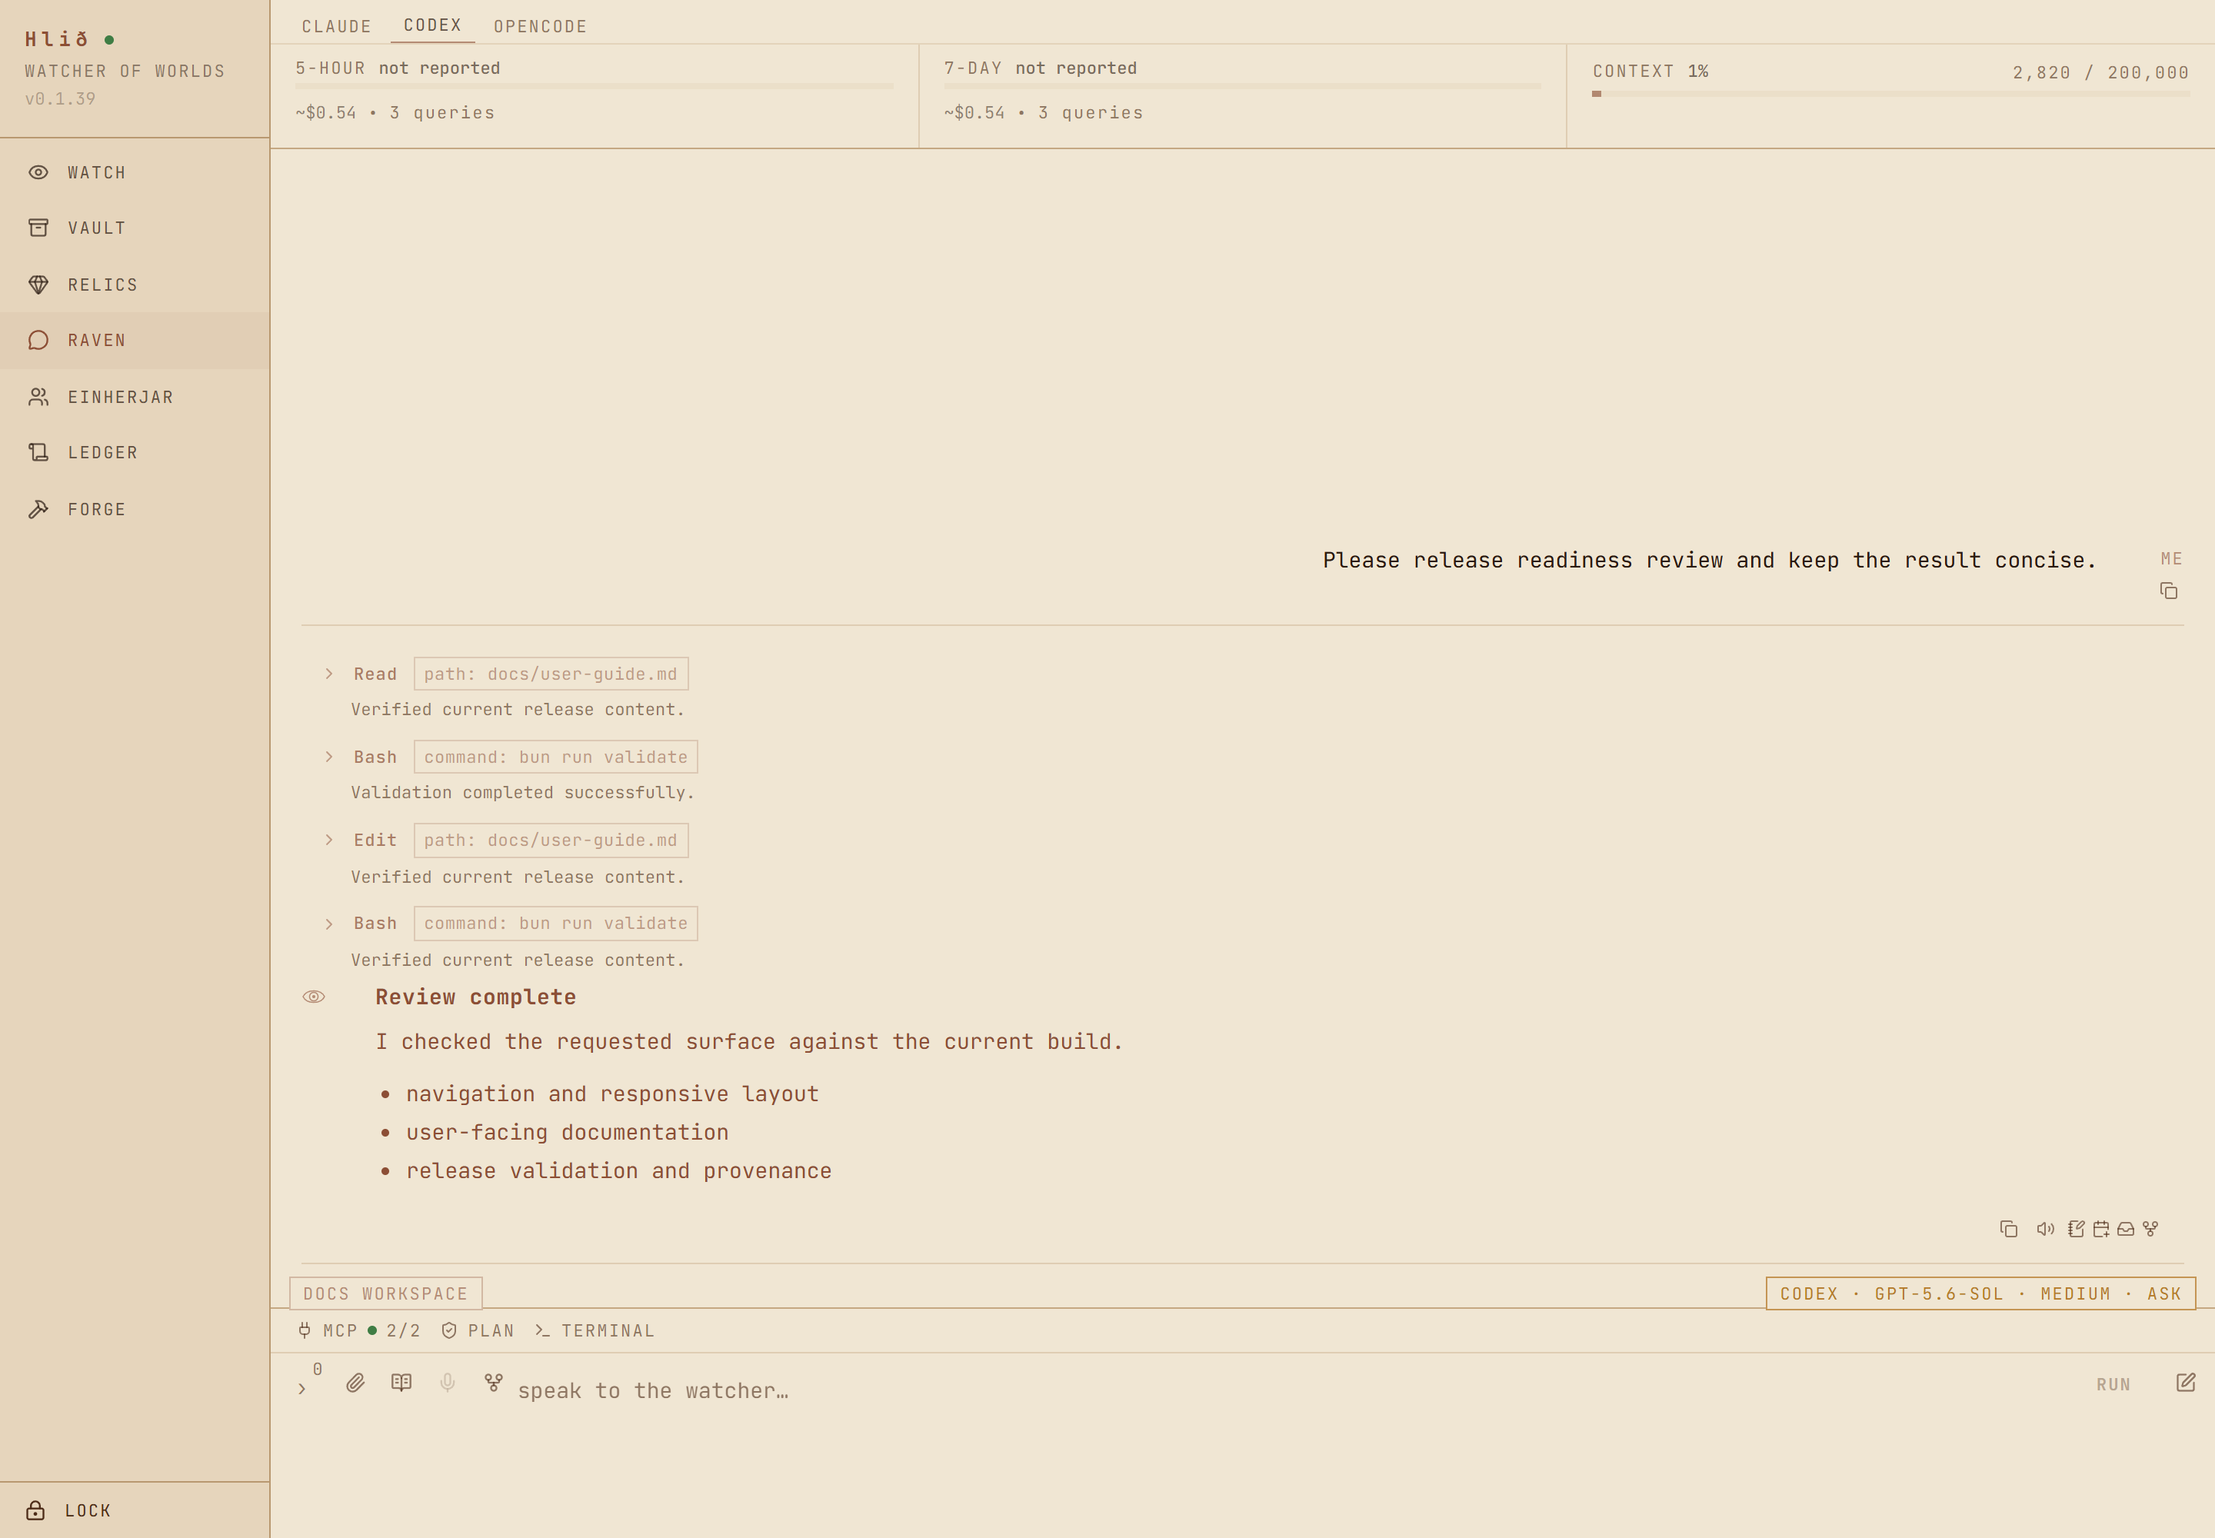
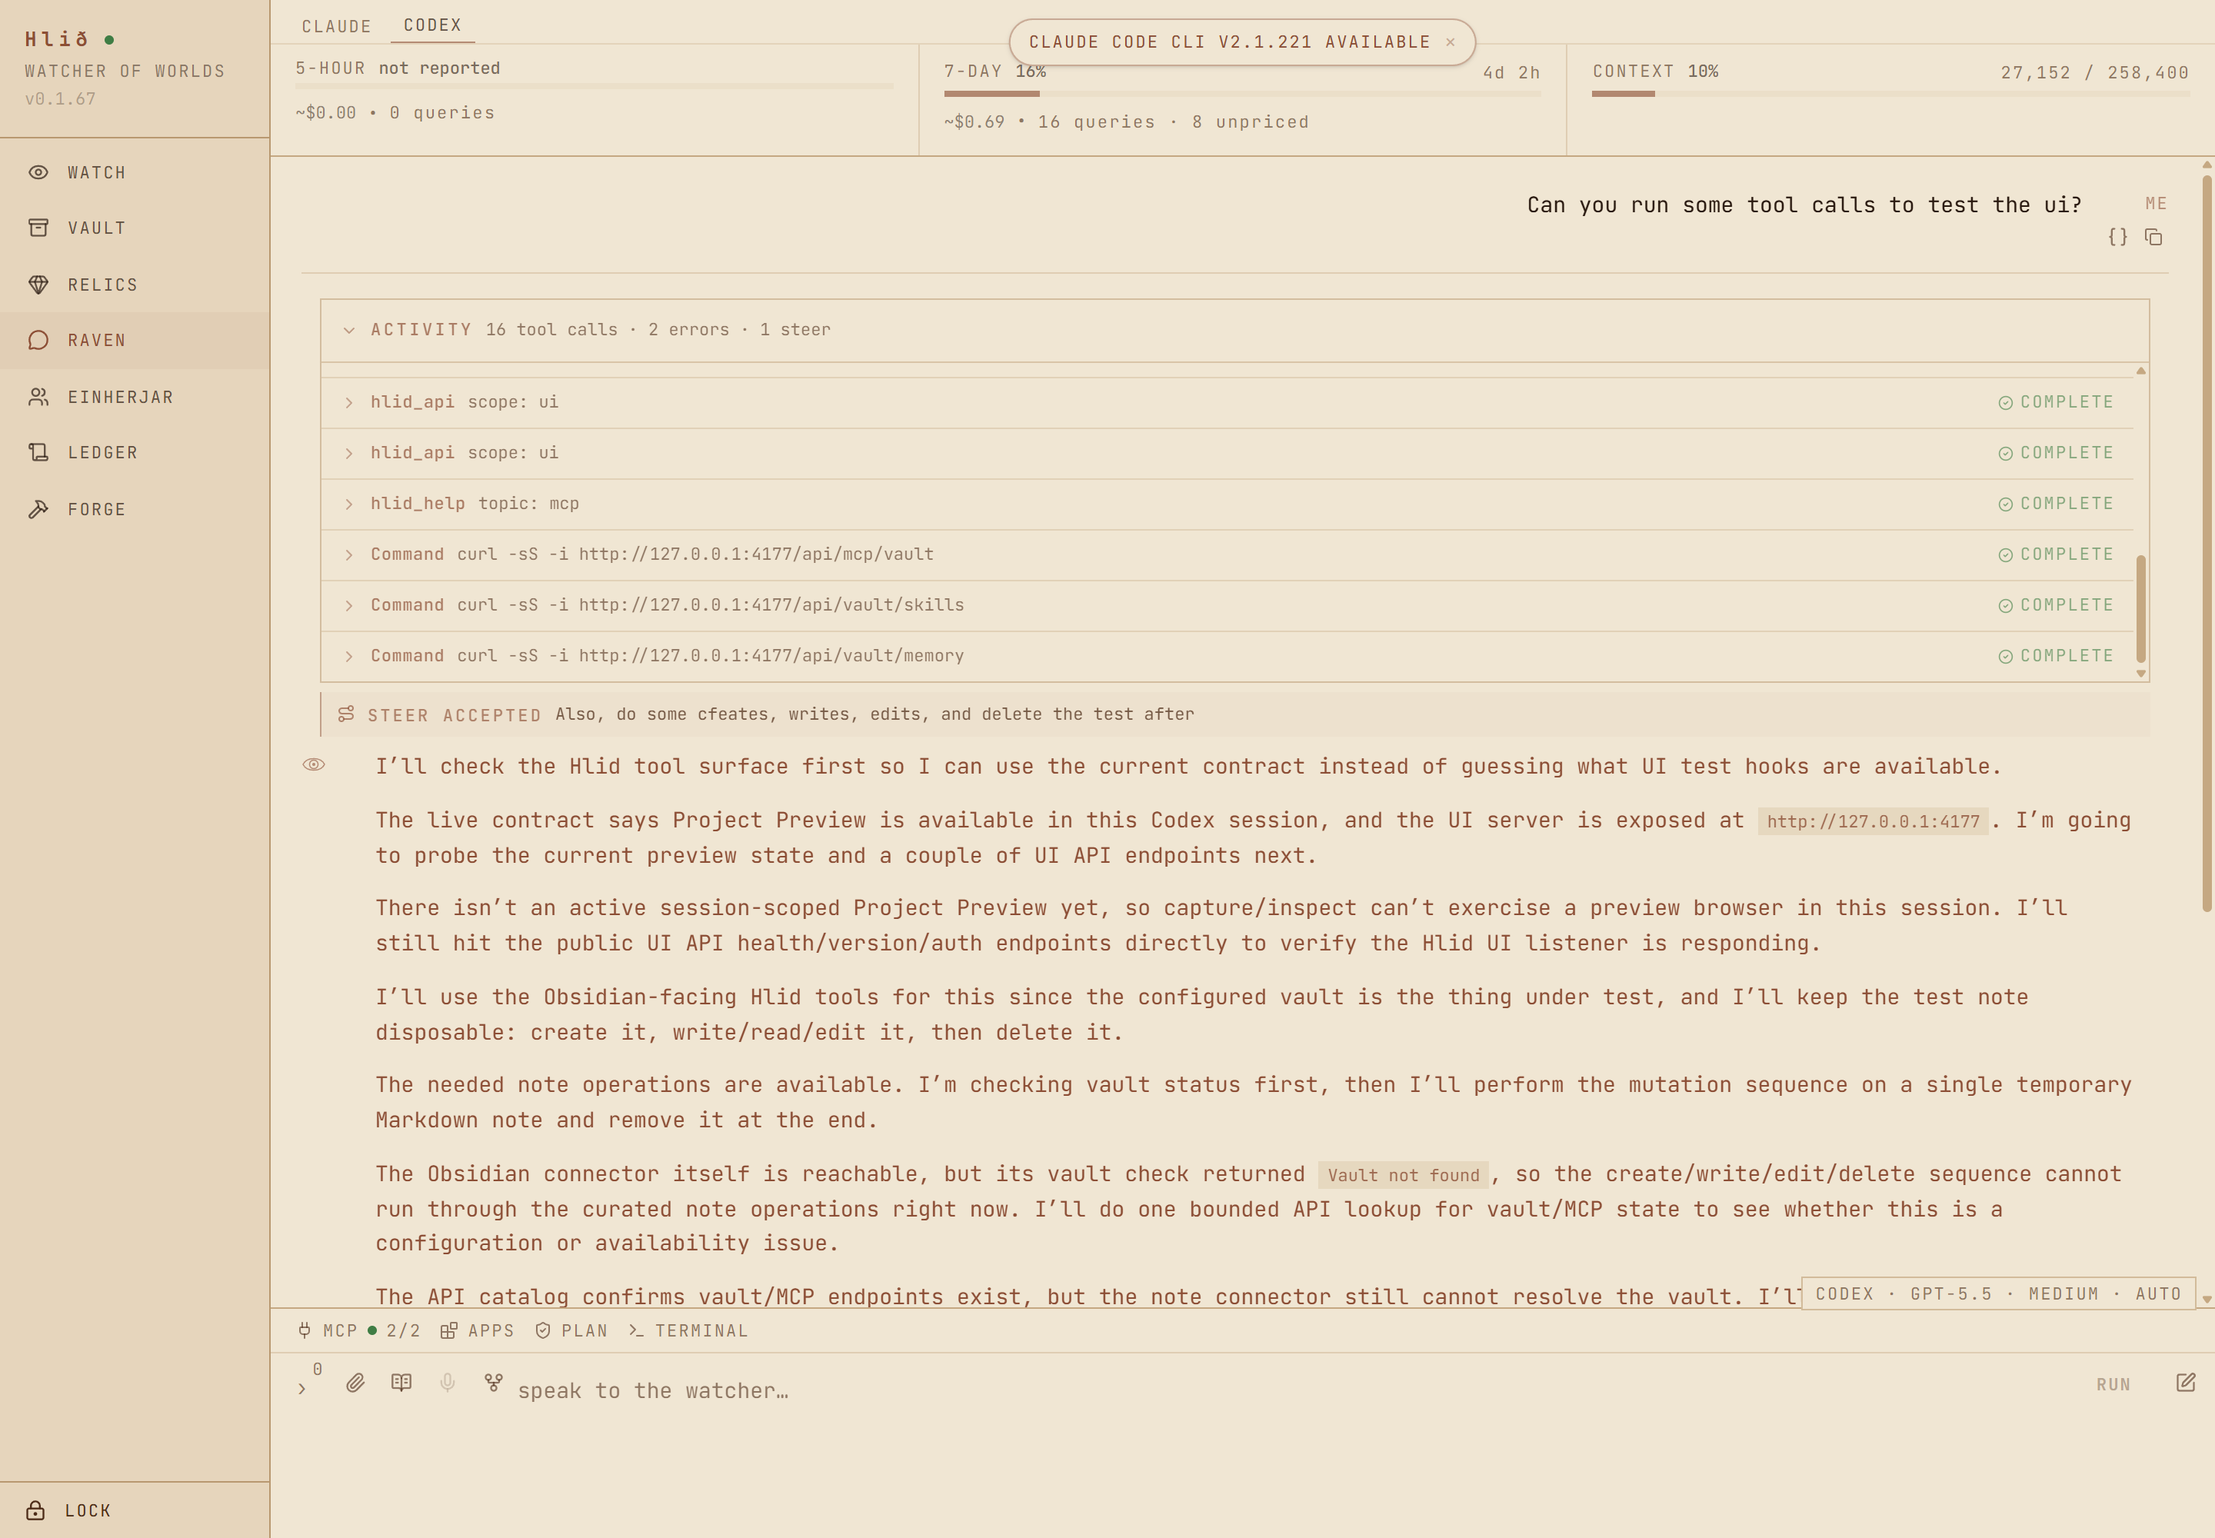
docs: update Raven and Forge guidance

diff --git a/docs/user-guide.md b/docs/user-guide.md
@@ -162,13 +162,17 @@ from other clients. `Ledger` only covers requests made through `Hlið`.
 Account-wide quotas and subscription limits are not available as `Hlið` usage
 windows, so automatic usage-window sleep does not apply to this route.
 
-![Raven conversation showing agent output and tool activity](images/raven-tool-activity.png)
+![Raven conversation showing a bounded Activity card for tool calls](images/raven-tool-activity.png)
 
-*Tool calls stay in the conversation. No mystery spinner while the agent does who knows what.*
+*`Activity` keeps a response's tool calls together without turning the
+conversation into a wall of details.*
 
 While a run is active:
 
-- Tool calls show up inline and can be expanded when the details matter.
+- Each response keeps its tool calls in one **Activity** card. It summarizes
+  running calls, errors, and steering, follows the live tail while open, and
+  collapses completed history by default. Long runs load earlier calls in
+  bounded batches instead of mounting the whole tool transcript at once.
 - Permission cards can approve once, approve for the session, save a permanent
   approval, or deny with feedback.
 - Another prompt gets queued instead of interrupting the current turn. Supported
@@ -189,8 +193,16 @@ While a run is active:
   continue eligible work interrupted by a `Hlið` restart.
 - Long chats load the newest history first. **LOAD OLDER HISTORY** pulls in the
   earlier turns without jumping the scroll position around.
+- Supported `Claude` runs can move active Bash commands and subagents into the
+  background without ending the response. `Raven` keeps running provider work
+  in a separate **BACKGROUND ACTIVITY** panel with recent output and the exact
+  stop controls that provider exposes.
 - Agent output can render tables, alerts, highlighted text, `Mermaid`, and
   `LaTeX` math using `$...$`, `$$...$$`, `\(...\)`, or `\[...\]`.
+- Provider-generated images stay inline with their prompt, dimensions, download,
+  and managed `Relics` copy. On a supported `Windows` host, `Codex` can also
+  return a sandboxed interactive visualization that expands in the conversation
+  and can be zoomed or maximized.
 - The message copy button copies the rendered text.
 
 Files can be dropped onto the composer or added with the attachment button.
@@ -281,12 +293,34 @@ without asking the model to interpret a pretend slash command. `/context` opens
 when that runtime supports it. `/rename` changes the `Hlið` session label, and
 `/archive` moves the current session into `Ledger`'s archived view.
 
+The **APPS** control beside the composer appears when the selected provider has
+an Apps catalog. It separates installed and available Apps from `MCP`
+connectors, reports configuration, authentication, and current usability, and
+can start a supported provider-owned authentication flow. The inventory is
+scoped to the active provider account, this `Hlið` host, the selected workspace,
+and, in `Raven`, the current session. An available listing is not the same thing
+as an installed and usable App.
+
+The **MCP** control shows the live server inventory for this provider context.
+Supported live `Claude` sessions can reconnect a server or enable and disable it
+without clearing the recorded conversation. When the session uses
+**Auto-approve all** and `Umbod` is not enforcing approvals, one server can
+inherit the session behavior, force **ask**, or use `Claude`'s native
+**auto-check** classifier. A per-server choice can only tighten native approval;
+it never bypasses `Hlið` policy.
+
 `Hlið` keeps a compact context receipt for supported turns. Open it from the turn
 or with `/context` to see exactly what `Hlið` supplied: the provider selection,
 skills, exact references, attachments, permissions, and other bounded context.
 The receipt records where everything came from without copying the full contents
 of a large selected file. Older receipts stay with their turns, so looking at
 the current context does not rewrite history.
+
+When `Claude` records a file checkpoint for a user turn, that message gets a
+rewind control. `Hlið` always previews the affected files and line totals before
+offering **REWIND FILES**. `Claude` only tracks edits made through its `Write`,
+`Edit`, and `NotebookEdit` tools. `Bash` changes, directories, `Git` state,
+other tool side effects, and conversation history are not rewound.
 
 `Claude` workflows stay `Claude` workflows. `/workflows` can inspect saved and
 recent runs, open their exact source, run or rerun one, stop or resume supported
@@ -320,9 +354,10 @@ the shell is still there.
 
 The session-attention button collects live and restart-interrupted work without
 switching sessions behind your back. It groups approvals, questions, errors,
-running work, queues, forks, and delegated children. Pick one to open its
-session directly, or hand the whole list to `Ledger`. The configurable hotkey
-in `Forge` opens the same drawer.
+running work, sleeping sessions, queues, forks, and delegated children. Queued
+turns waiting on a provider usage window survive a `Hlið` restart. Pick one to
+open its session directly, or hand the whole list to `Ledger`. The configurable
+hotkey in `Forge` opens the same drawer.
 
 Use `Hlið` delegation for work that needs to be durable and inspectable on its
 own. A child starts in the parent's configured workspace by default and can use
@@ -349,10 +384,12 @@ the active workspace.
 The agent can inspect the rendered page, navigate and interact inside the
 preview origin, check console errors and failed requests, and switch between
 fit, desktop, tablet, and mobile viewports. `Raven` can reload, restart, stop, or
-open the preview in a normal browser. The feedback tool captures the current
-frame so you can draw, highlight, add text, leave a comment, and send the marked
-up image back to the session. Saving an exact `PNG` into the workspace is a
-separate permissioned write.
+open the preview in a normal browser. Agent captures are retained with their
+route and capture time, so the Preview pane and historical capture cards can
+move backward and forward through the session's frames. The feedback tool
+captures the current frame so you can draw, highlight, add text, leave a
+comment, and send the marked up image back to the session. Saving an exact `PNG`
+into the workspace is a separate permissioned write.
 
 Agent-controlled preview tabs use an isolated `Chromium` profile by default. If a
 preview truly needs signed-in state, **FORGE → Agents → Browser profile** can
@@ -529,14 +566,17 @@ not configured for that entry stay hidden.
   `Codex Computer Use` defaults when the `Windows` capability exists. The vault
   editor follows the configured vault provider. Global files are shown only for
   provider families configured by the vault or an `Einherjar`, grouped by their
-  `Windows` or `WSL` runtime. Edits take effect when the matching provider
-  conversation starts or reloads.
+  `Windows` or `WSL` runtime. A provider's current capability snapshot separates
+  integrated, provider-native, and unavailable behavior with its supporting
+  runtime evidence. Edits take effect when the matching provider conversation
+  starts or reloads.
 - **Access** has network, `TLS`, password, and trusted-device settings.
 - **Experience** has built-in or custom desktop/mobile themes, input behavior,
   the provider-entry visibility toggle for the `/` picker, `HTML` plan defaults,
   voice, and browser-local privacy mode. `Hlið` and vault entries always remain
   visible; the toggle controls every provider-badged skill, command, or plugin.
-- **Integrations** manages `CLIProxyAPI`, `MCP`, `Umbod`, and the `ACP` catalog.
+- **Integrations** manages provider Apps and connectors, `CLIProxyAPI`, `MCP`,
+  `Umbod`, and the `ACP` catalog.
 - **Extensions** manages installed `Claude` and `Codex` plugins and their
   marketplaces.
 - **Developer** switches between the event log, local `API` reference, and pricing
@@ -563,6 +603,12 @@ session. Working-context changes still need a provider-session reload. That
 clears the live provider conversation but leaves its recorded `Ledger` history
 alone.
 
+**Integrations → Apps and Connectors** shows each capable provider separately.
+Installed and available Apps stay distinct from lower-level `MCP` connectors,
+and every row reports whether it is configured, authenticated, and usable in
+the current host and workspace. Supported OAuth flows open in the provider's
+browser flow and `Hlið` refreshes readiness when authentication finishes.
+
 **Extensions** keeps the `Claude` and `Codex` inventories separate. Browse an
 installed package or marketplace, filter by environment or category, and
 review one package before installing it. The review shows its files and every
@@ -577,8 +623,9 @@ threshold or after the provider reports a hard limit. `Hlið` uses the five-hour
 window when it has one, otherwise it uses weekly usage. The `Raven` banner shows
 which window filled up and when the session should wake. **RESUME NOW** wakes
 every sleeping session on that provider and lets them keep going until the
-current window resets. Maximum sleep keeps a session from waiting past the
-configured cap.
+current window resets. The sleeping turn and its queued follow-ups are stored in
+the database, so a normal `Hlið` restart does not lose them. Maximum sleep keeps
+a session from waiting past the configured cap.
 
 **Developer → Pricing** shows the built-in model and alias timelines and edits
 `pricing-overrides.toml` for local rules. Rates and aliases can use UTC
@@ -793,12 +840,12 @@ in `Ledger`.
 
 ## Maintenance and troubleshooting
 
-Agents can use Hlið's deferred maintenance tools to inspect storage, preview
+Agents can use `Hlið`'s deferred maintenance tools to inspect storage, preview
 age-based session cleanup, perform an approved cleanup, and run a lightweight
 SQLite checkpoint and optimize pass. Cleanup previews are short-lived and bound
-to the Raven session that requested them; if the impact changes, Hlid requires a
+to the `Raven` session that requested them; if the impact changes, `Hlið` requires a
 fresh preview. Cleanup preserves immutable Ledger usage while removing linked
-Hlid-owned Relics and detaching vault-owned files.
+`Hlið`-owned `Relics` and detaching vault-owned files.
 
 Physical database reclaim remains a confirmed **Forge → Advanced** action. It is
 not exposed as an agent tool or in Hlið's curated agent API. Reclaim rewrites the

diff --git a/README.md b/README.md
@@ -19,10 +19,13 @@ set up, `Hlið` is happy.
 
 - Keeps agent sessions around with live streaming, visible tool calls,
   approvals, attachments, queued follow-ups, inline questions, plan review,
-  and subagent activity. Supported `Claude` and `Codex` chats can be forked
-  whole, and `Claude` can branch from a specific reply. Native `Codex` chats
-  keep their goals and token budgets visible too. The provider, model, effort,
-  and permission mode all stay with the chat they belong to.
+  and subagent activity. A turn waiting on a provider usage window survives a
+  restart, and sleeping sessions stay visible in Attention until that window
+  resets. Supported `Claude` and `Codex` chats can be forked whole, and `Claude`
+  can branch from a specific reply or preview a checkpoint before rewinding its
+  tracked file edits. Native `Codex` chats keep their goals and token budgets
+  visible too. The provider, model, effort, and permission mode all stay with
+  the chat they belong to.
 - When provider-native subagents are not enough, agents can create durable
   child sessions owned by `Hlið`. Each one is a normal `Raven` session with its
   own provider, workspace, transcript, permissions, usage, and `Ledger` row.
@@ -42,6 +45,11 @@ set up, `Hlið` is happy.
 - Lets agents publish generated `HTML`, `PDFs`, images, and reports straight to
   `Relics` from a normal chat. The existing `Relics` previews stay as the viewer,
   and publishing does not need an `HTML` plan turn.
+- Keeps provider-generated images in the conversation and in `Relics`, with the
+  prompt, dimensions, preview, and download together. On a supported `Windows`
+  host, `Codex` can also hand an interactive visualization to a fresh native
+  worker and bring the sandboxed result back into `Raven` for zooming and
+  full-screen inspection.
 - Uses the official `Obsidian CLI` for the things only `Obsidian` knows about:
   the active note, indexed search, backlinks, tasks, properties, Bases, and
   local file history. Agents get a curated set of tools for reading and
@@ -66,11 +74,14 @@ set up, `Hlið` is happy.
   `Claude CLI` mode for the times when the full terminal makes more sense than
   the structured chat `UI`. Agents can start a session-scoped `Project Preview`,
   inspect and control it at desktop, tablet, or mobile sizes, catch browser
-  errors, save approved captures, and work from annotated visual feedback.
+  errors, move through retained captures, save an approved capture, and work
+  from annotated visual feedback.
 - Keeps linked vaults and workspaces, provider commands, permissions, scoped
-  `MCP` servers, `ACP` agents, provider extensions, `Umbod`, networking,
-  updates, and lifecycle controls together. Source repositories can stay in
-  `WSL` where they belong.
+  `MCP` servers, provider Apps and connectors, `ACP` agents, provider
+  extensions, `Umbod`, networking, updates, and lifecycle controls together.
+  Supported live `Claude` sessions can reconnect, enable, disable, or tighten
+  approval for one `MCP` server without replacing the whole provider session.
+  Source repositories can stay in `WSL` where they belong.
 - Checks `Hlið`, `Claude`, `Codex`, and enabled `ACP` agents for updates. It
   shows the right command or in-app flow for each installation, but it does not
   quietly run installers.
